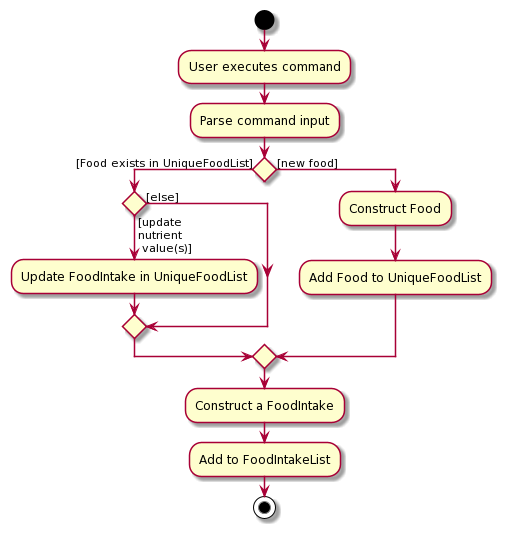
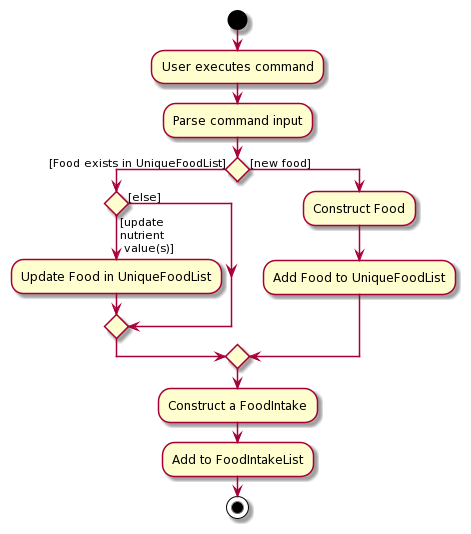
Update Diagrams

diff --git a/docs/DeveloperGuide.md b/docs/DeveloperGuide.md
@@ -183,6 +183,8 @@ Some example date inputs: `3 Jan 2021`, `21 Feb 2021`, `30 Mar 2021`
 
 ### User Object
 
+<img src="images/UserClassDiagram.png" width="512" />
+
 The User object is where the majority of the user's information and parameters are stored.
 
 The 'User' object contains the following components:
@@ -197,6 +199,8 @@ Some of the actions that can be performed with the User component are:
 
 
 ### Food Object
+
+<img src="images/FoodActivityDiagram.png" width="145" />
 
 The food object stores the name of the food and its nutrient values (Carbohydrates, Fats and Proteins).
 
@@ -374,18 +378,18 @@ Additionally, some noteworthy information to note:
 
 ### Add Food Intake feature
 
-<img src="images/AddFoodIntakeActivityDiagram.png" width="422" />
+<img src="images/AddFoodIntakeActivityDiagram.png" width="507" />
 
 #### Description:
 For the user's convenience, there are 3 scenarios for recording food intake.
 
-1. Add `FoodIntake` for new `Food` not currently in the `UniqueFoodList`:
+1. Add `FoodIntake` for new `Food` not currently in the `UniqueFoodList`.<br/>
 Example: `food_intake_add d/dd MMM yyy n/FOOD_NAME c/CARBOS f/FATS p/PROTEINS`
 
-2. Add `FoodIntake` using existing `Food` in the `UniqueFoodList` and update its nutrient values:
+2. Add `FoodIntake` using existing `Food` in the `UniqueFoodList` and update its nutrient values.<br/>
 Example: `food_intake_add d/dd MMM yyy n/FOOD_NAME p/10 <at least 1 nutrient value>`
 
-3. Add `FoodIntake` using existing `Food` in the `UniqueFoodList` without updating its values:
+3. Add `FoodIntake` using existing `Food` in the `UniqueFoodList` without updating its values.<br/>
 Example: `food_intake_add d/dd MMM yyy n/FOOD_NAME`
 
 #### Implementation:
